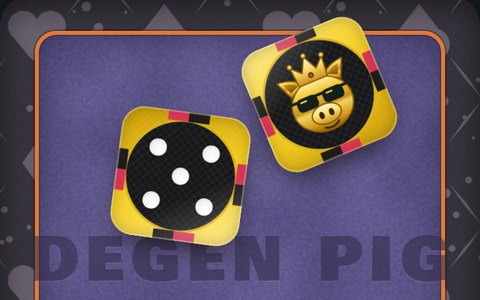
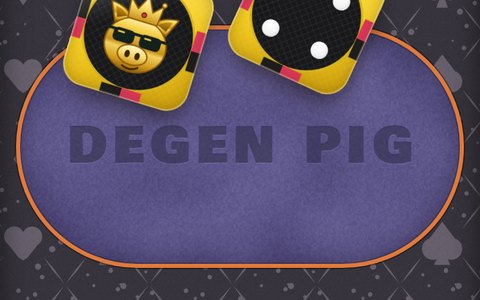
Seven Mile table: racetrack-shaped felt with the orange line wrapped round the Degen Pig name, tighter suits pattern on the rail
Claude-Session: https://claude.ai/code/session_01Ngu9BVE3bC2axWooB8h8JP

diff --git a/public/index.html b/public/index.html
@@ -1098,7 +1098,7 @@ dialog.acctdlg{width:min(92vw,420px);padding:24px 18px 18px;border:2px solid tra
 #app[data-table="carbon"] .tray{background:#1a1a1d url(tables/carbon.jpg) center/cover}#app[data-table="carbon"] .brand{color:rgba(0,0,0,.6)!important;text-shadow:0 1px 1px rgba(255,255,255,.12)!important}#app[data-table="carbon"] .inlay{border:2px solid rgba(226,59,59,.85);box-shadow:0 0 8px rgba(226,59,59,.45)}
 #app[data-table="molten"] .tray{background:#1a0a04;box-shadow:0 0 0 2px rgba(20,8,0,.7),0 0 26px rgba(255,90,0,.38)}#app[data-table="molten"] .inlay{border:2px solid rgba(255,150,40,.9);box-shadow:0 0 10px rgba(255,95,0,.75),inset 0 0 12px rgba(255,95,0,.45)}#app[data-table="molten"] .brand{color:rgba(16,5,0,.6)!important;text-shadow:0 0 14px rgba(255,110,10,.55),0 1px 0 rgba(255,170,80,.22)!important}
 #app[data-table="space"] .tray{background:#04050e;box-shadow:0 0 0 2px rgba(10,14,40,.8),0 0 26px rgba(90,130,255,.4)}#app[data-table="space"] .inlay{border:1.5px solid rgba(175,215,255,.85);box-shadow:0 0 10px rgba(110,170,255,.8),inset 0 0 12px rgba(110,170,255,.35)}#app[data-table="space"] .brand{color:rgba(205,225,255,.2)!important;text-shadow:0 0 16px rgba(120,170,255,.6)!important}
-#app[data-table="seven"] .tray{--sp:clamp(22px,7.5vw,34px);isolation:isolate;background:url(tables/seven-rail.jpg) -20px -18px/190px 190px,#38353E;box-shadow:inset 0 6px 22px rgba(0,0,0,.5),0 0 0 2px #16141A}#app[data-table="seven"] .inlay{inset:calc(var(--sp) - 3px);z-index:-1;background:url(tables/seven-felt.jpg) center/512px 512px padding-box;border:3px solid #E2793A;border-radius:16px;box-shadow:0 0 0 1px rgba(0,0,0,.35),inset 0 0 0 1px rgba(0,0,0,.2),inset 0 0 26px rgba(24,18,46,.5)}#app[data-table="seven"] .brand{color:rgba(34,30,58,.5)!important;text-shadow:0 1px 0 rgba(255,255,255,.06)!important}
+#app[data-table="seven"] .tray{--sp:clamp(22px,7.5vw,34px);isolation:isolate;background:url(tables/seven-rail.jpg) -14px -12px/125px 125px,#38353E;box-shadow:inset 0 6px 22px rgba(0,0,0,.5),0 0 0 2px #16141A}#app[data-table="seven"] .inlay{inset:27% 12px;z-index:-1;background:url(tables/seven-felt.jpg) center/512px 512px padding-box;border:3px solid #E2793A;border-radius:999px;box-shadow:0 0 0 1px rgba(0,0,0,.35),inset 0 0 0 1px rgba(0,0,0,.2),inset 0 0 26px rgba(24,18,46,.5)}#app[data-table="seven"] .brand{font-size:clamp(22px,9.4vw,52px);color:rgba(34,30,58,.5)!important;text-shadow:0 1px 0 rgba(255,255,255,.06)!important}
 #app.hot .inlay{border-color:var(--gold)!important;box-shadow:0 0 20px rgba(242,194,48,.6),inset 0 0 20px rgba(242,194,48,.35)!important}
 #app[data-table="xmas"] .tray{background:#0B3A22;box-shadow:inset 0 8px 28px rgba(0,0,0,.55),0 0 0 2px #7E1020,0 0 0 4px #E9C46A,0 0 22px rgba(255,200,120,.35)}#app[data-table="xmas"] .inlay{border-color:transparent;box-shadow:none}#app[data-table="xmas"] .brand{color:rgba(235,245,255,.18)!important;text-shadow:0 0 12px rgba(255,255,255,.35),0 1px 0 rgba(0,0,0,.3)!important}
 #app[data-table="vault"] .tray{background:#141210;box-shadow:inset 0 8px 28px rgba(0,0,0,.7),0 0 0 2px #8A5A0A,0 0 0 4px #F6CF45,0 0 0 5px #5A3A06,0 0 24px rgba(242,194,48,.35)}#app[data-table="vault"] .inlay{border-color:transparent;box-shadow:none}#app[data-table="vault"] .brand{color:rgba(242,194,48,.16)!important;text-shadow:0 1px 0 rgba(0,0,0,.8),0 -1px 0 rgba(255,230,150,.12)!important}
